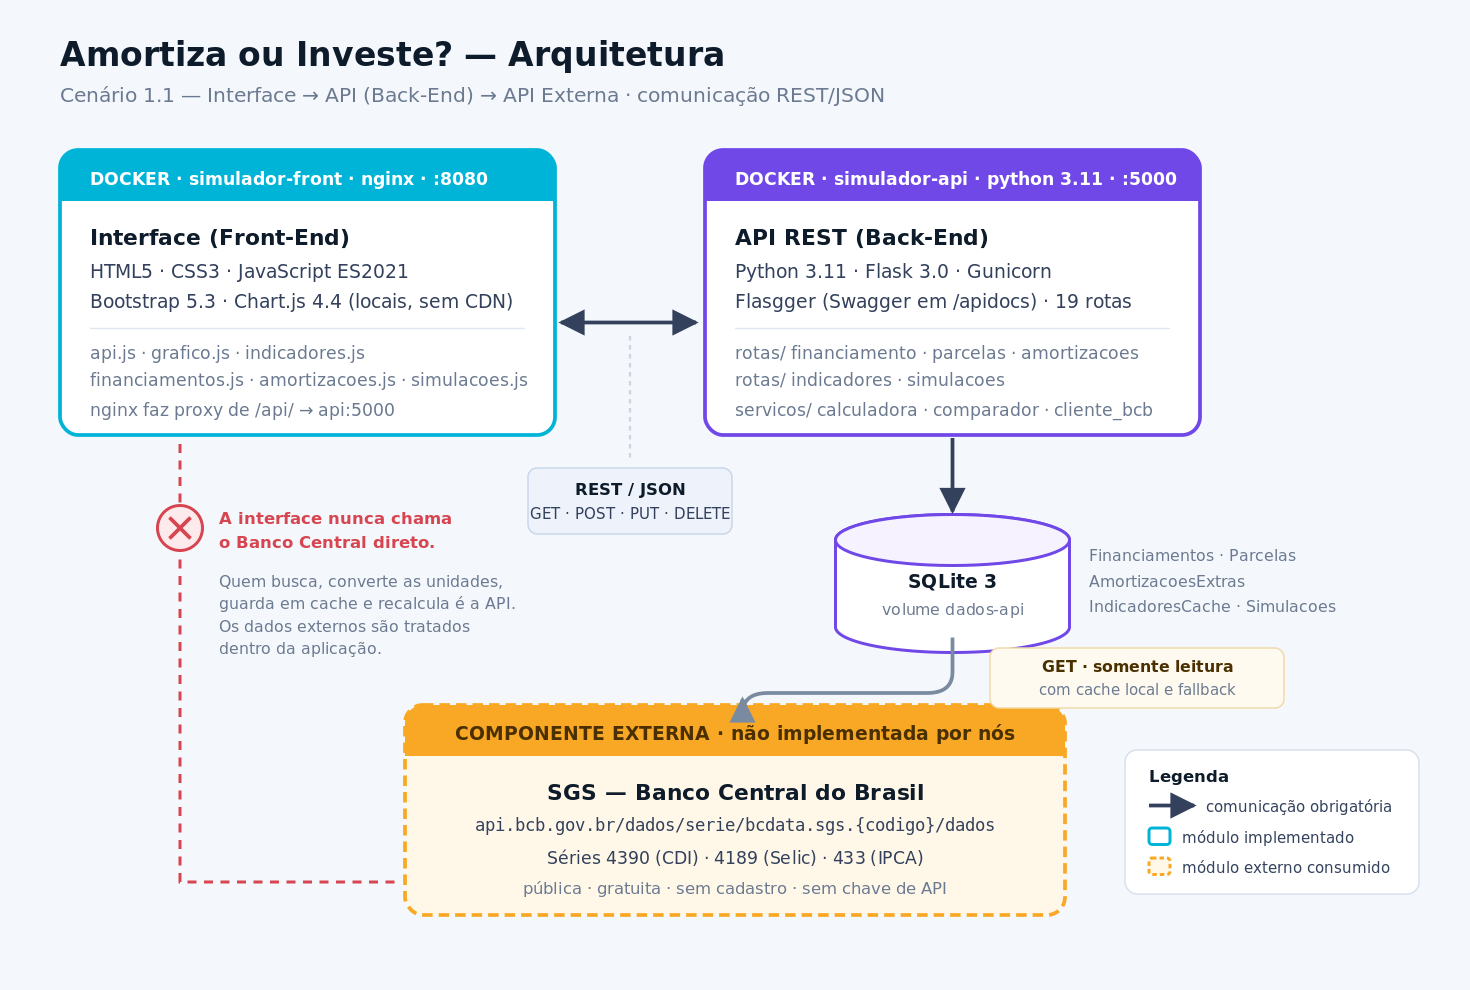
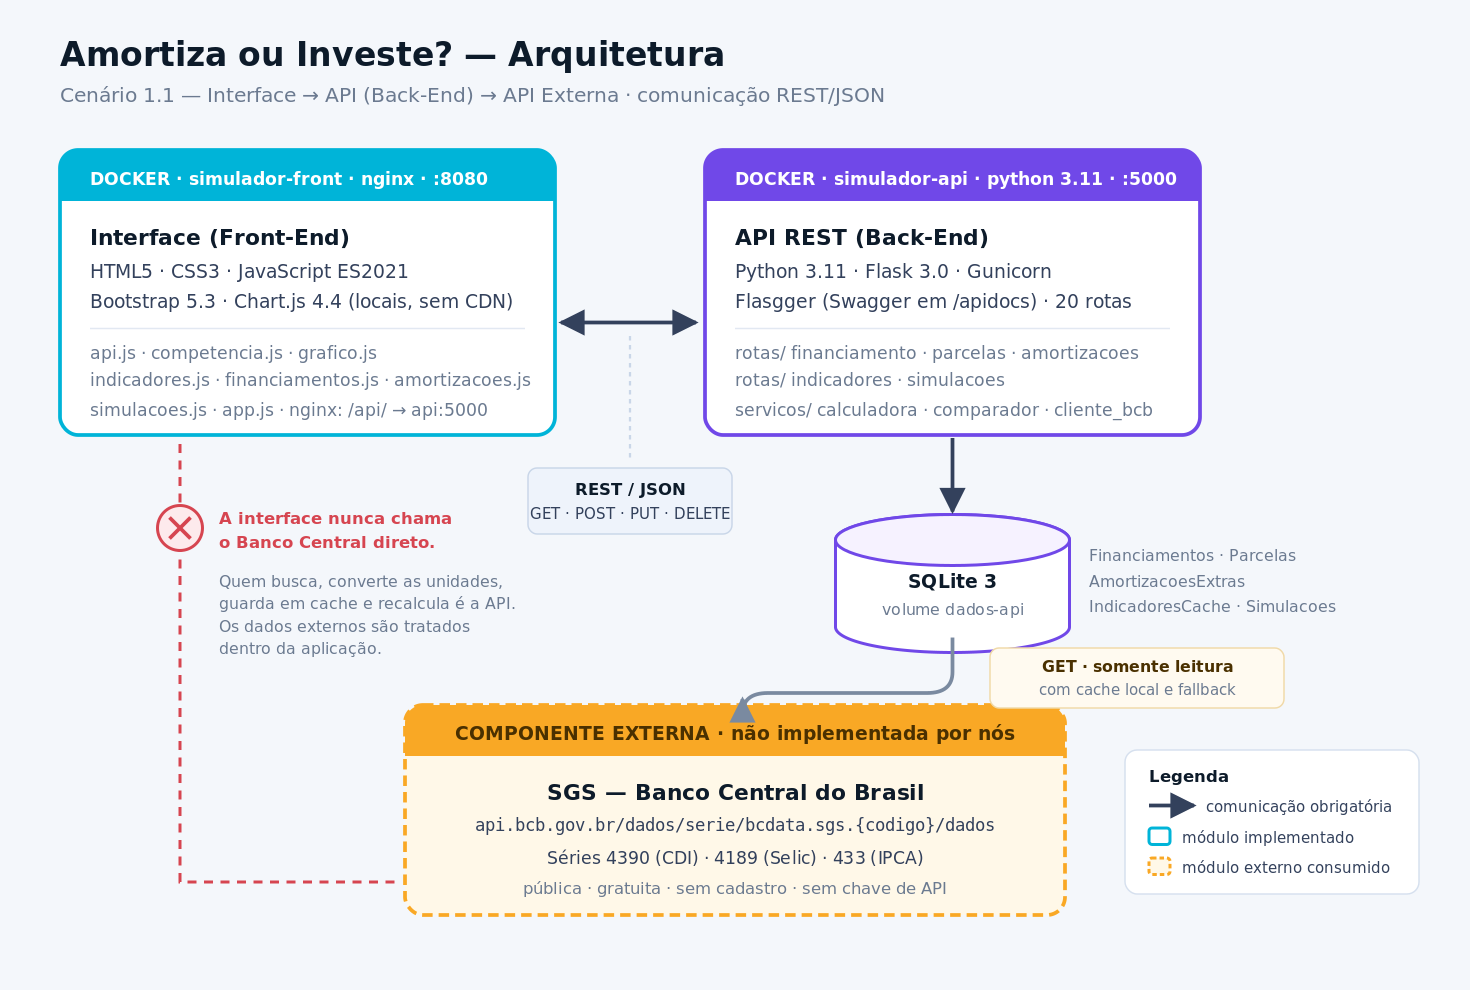
docs: correções da revisão final antes da gravação
- Pré-requisito passa a ser Python 3.10: o código usa 'X | None' (PEP
  604) em assinaturas, que quebra no import sob 3.9.
- Esclarece que são 20 rotas próprias mais o /apidocs do Flasgger — a
  tabela somava 21 linhas contra um total declarado de 20.
- Porta publicada passa a ser 5001, acompanhando o compose.
- Fluxograma atualizado para 20 rotas.

Changed region(s): [[0.0612, 0.3333, 0.3673, 0.4242]]

diff --git a/README.md b/README.md
@@ -110,7 +110,7 @@ UNIQUE(codigo_serie, data_ref)        montante_amortizar · montante_investir
 
 ## Rotas
 
-Base: `http://localhost:5000` · Documentação interativa: `/apidocs`
+Base: `http://localhost:5000` (via Compose, publicada no host em `5001`) · Documentação interativa: `/apidocs`
 
 ### Financiamentos
 
@@ -185,11 +185,11 @@ Dois efeitos possíveis:
 |---|---|---|
 | `GET` | `/` | Índice da API, com os caminhos úteis |
 | `GET` | `/health` | Liveness. Responde **200 sempre** |
-| `GET` | `/apidocs` | Documentação Swagger |
+| `GET` | `/apidocs` | Documentação Swagger (servida pelo Flasgger) |
 
 > `/health` informa o estado do BCB no corpo (`{"bcb": "ok"\|"indisponivel"}`), **nunca** no código HTTP. Se o healthcheck do container dependesse da componente externa, uma instabilidade do Banco Central deixaria o container *unhealthy* e a interface sem subir — por um motivo alheio a esta aplicação.
 
-**Total: 20 rotas**, cobrindo `GET`, `POST`, `PUT` e `DELETE`.
+**Total: 20 rotas próprias**, cobrindo `GET`, `POST`, `PUT` e `DELETE` — mais a documentação em `/apidocs`, que o Flasgger registra por conta própria.
 
 ---
 
@@ -249,16 +249,18 @@ git clone https://github.com/SaraWolfP/software-architecture-mvp-api.git
 cd software-architecture-mvp-api
 
 docker build -t simulador-api .
-docker run --rm -p 5000:5000 -v dados-api:/app/dados simulador-api
+docker run --rm -p 5001:5000 -v dados-api:/app/dados simulador-api
 ```
 
-Acesse a documentação em http://localhost:5000/apidocs
+Acesse a documentação em http://localhost:5001/apidocs
+
+> A porta do host é 5001 porque o AirPlay Receiver do macOS ocupa a 5000 por padrão. Dentro do container a API continua na 5000.
 
 > Para subir **API + interface juntas**, use o `docker compose up` do repositório da interface — é lá que fica o arquivo de composição.
 
 ### Opção 2 — Ambiente local
 
-**Pré-requisito:** Python 3.9 ou superior.
+**Pré-requisito:** Python 3.10 ou superior — o código usa a sintaxe de união de tipos `X | None` (PEP 604), que só existe a partir do 3.10.
 
 ```bash
 # 1. Clone o repositório
